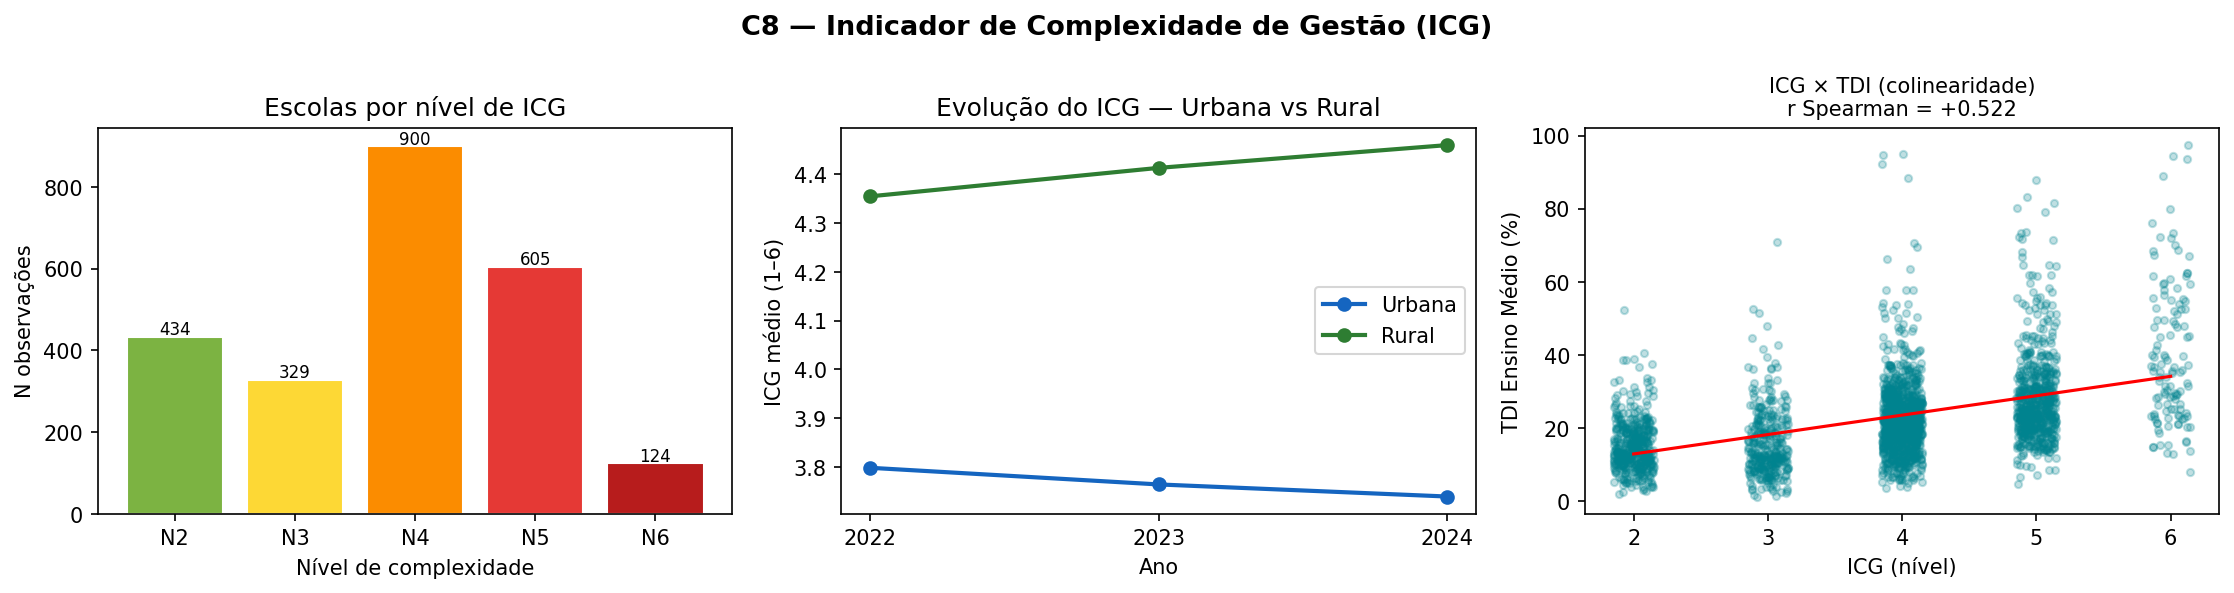
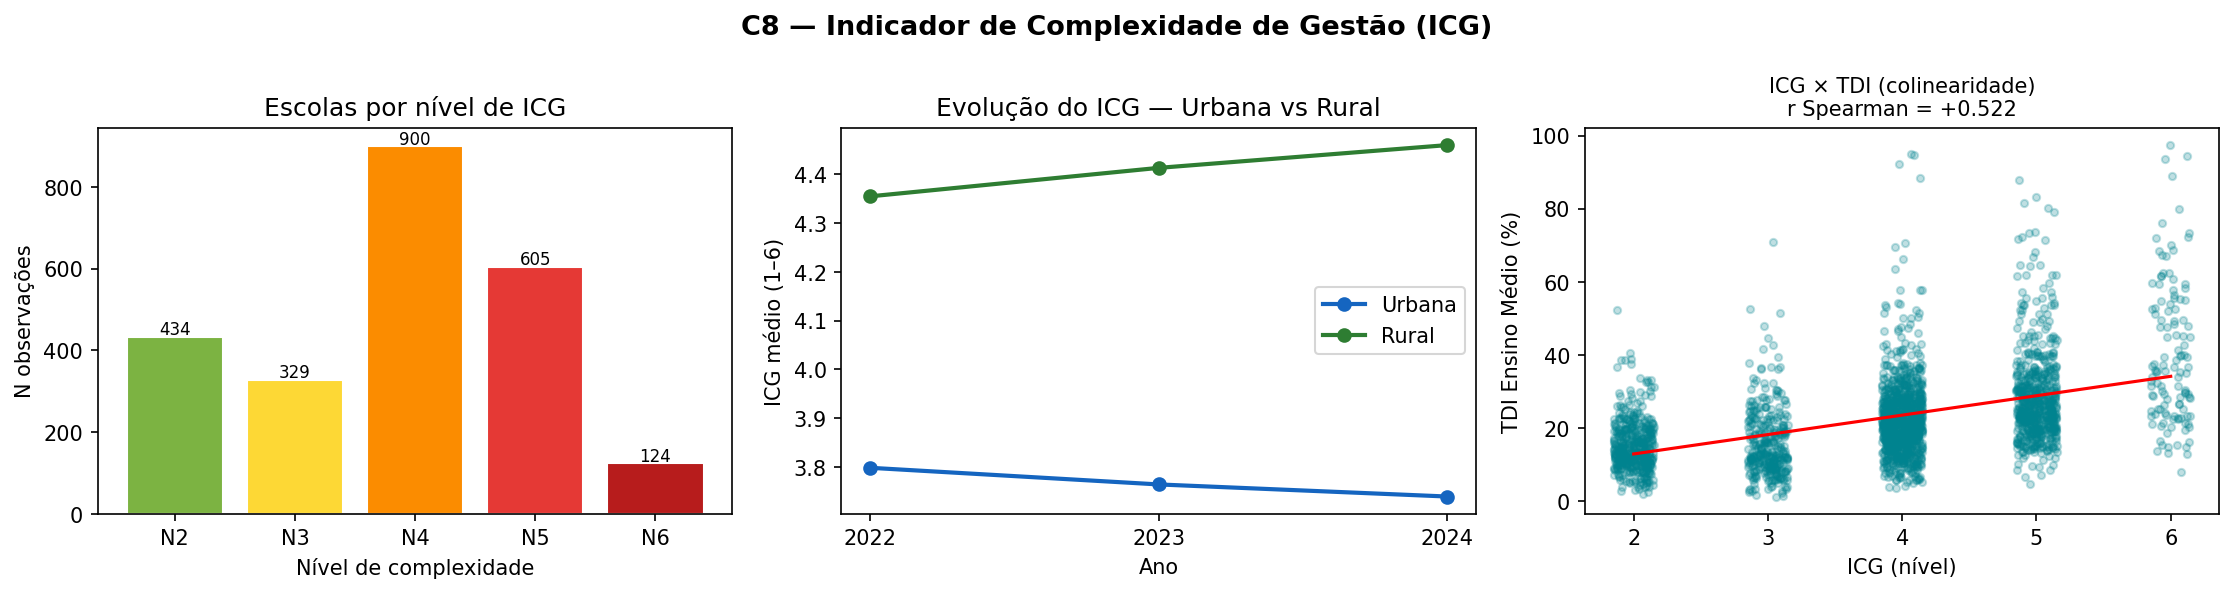
metricas

diff --git a/documentos/PLANO_DE_FINALIZACAO.md b/documentos/PLANO_DE_FINALIZACAO.md
@@ -2,8 +2,16 @@
 
 > **Atualizado em 30/07/2026.** Rodada de auditoria fechou os itens 1.3, 2.1, 4.2 e 5.2,
 > mais três achados novos (contagem de testes, ordem dos fatores SHAP, epígrafe do Freire).
-> A bibliografia foi fechada em 24 referências, todas com PDF local. Estado corrente
+> A bibliografia foi fechada em 24 referências, 21 delas com PDF local em
+> `documentos/referencias/` — as três exceções são as entradas BRASIL/INEP, que são bases de
+> dados e não artigos. Estado corrente
 > verificável por `/validar-numeros`, `/validar-escrita` e `/validar-documento`.
+>
+> **Revisão de 18/08/2026:** pipeline reexecutado do bruto ao ranking no ambiente fixado.
+> Artefatos de ETL, features, SHAP, resíduos, SS13 e predição saíram **bit-idênticos**; os
+> CSVs de métricas divergiram no máximo 4,4e-16 (epsilon de máquina, no Random Forest), com
+> Spearman e Precision@K exatamente iguais. 138/138 testes passam e a varredura do notebook
+> 15 confere 178 números do `.docx` sem divergência.
 
 Levantamento de **24 de julho de 2026**, feito a partir da inspeção do
 `TCC_Evasao_Escolar.docx` atual e do repositório. Supera o `PROXIMOS_PASSOS.md`
@@ -12,7 +20,7 @@ Levantamento de **24 de julho de 2026**, feito a partir da inspeção do
 **Estado geral:** o trabalho está essencialmente pronto. Os 13 comentários do
 orientador foram atendidos, o Capítulo 2 (Revisão Bibliográfica) foi escrito com
 referências reais em ABNT, o experimento SS13 e o gráfico de resíduos em número de
-alunos foram inseridos. O documento tem 7 capítulos, 20 figuras, 11 quadros e 24
+alunos foram inseridos. O documento tem 7 capítulos, 22 figuras, 12 quadros e 24
 referências (eram 18 em 24/07; a lista foi revista e fechada em 30/07). O que resta são **correções de consistência, elementos pré-textuais do
 autor e preparação para a defesa** — nenhuma tarefa de pesquisa em aberto.
 
@@ -40,10 +48,13 @@ depende do autor.*
   altura reajustada ao novo aspecto para não distorcer.
 
 - [x] **1.3 Contagem de testes. ✅ REABERTO E FECHADO (30/07).** Passou de 114 para **132**
-  com os testes da ressalva de equidade e da exportação do ranking. As 4 ocorrências no
-  `.docx` (¶330, ¶378, ¶499, ¶512) dizem “132 testes” e conferem com o `pytest`.
+  com os testes da ressalva de equidade e da exportação do ranking, e as 4 ocorrências no
+  `.docx` foram acertadas na época.
   Todo teste novo obriga a atualizar esses quatro pontos — o bloco 10 da varredura não trava
   esse número.
+  **Atualizado em 18/08/2026:** a suíte está em **138 testes** e as quatro ocorrências no
+  `.docx` (¶311, ¶359, ¶539, ¶552 na numeração atual) já dizem “138 testes”, conferindo com
+  o `pytest`. A renumeração dos parágrafos veio das edições posteriores a 30/07.
 
 - [ ] **1.4 Ficha catalográfica. ⏳ DEPENDE DO AUTOR.** Não foi tocada de propósito: o
   bloco ainda traz “Gerenciador de ficha catalográfica: http://biblio2.pucsp.br/ficha/…
@@ -52,8 +63,8 @@ depende do autor.*
 
 - [x] **1.5 Preparado o auto-update de campos. ✅** Inserido
   `<w:updateFields w:val="true"/>` no `settings.xml` → **ao abrir no Word, ele já
-  pergunta se quer atualizar os campos** (Sumário, Lista de Ilustrações com 20 figuras,
-  Lista de Quadros com 11). O autor só precisa **aceitar** (ou Ctrl+A, F9). Esta parte
+  pergunta se quer atualizar os campos** (Sumário, Lista de Ilustrações com 22 figuras,
+  Lista de Quadros com 12). O autor só precisa **aceitar** (ou Ctrl+A, F9). Esta parte
   é intrínseca ao Word e não há como preencher a paginação fora dele.
 
 - [x] **1.6 Larguras dos Quadros 5 e 7 conferidas. ✅** Quadro 5 (4 colunas, cabeçalhos

diff --git a/CLAUDE.md b/CLAUDE.md
@@ -38,7 +38,7 @@ monografia/
 │   ├── COMENTARIOS_ORIENTADOR.md      # os 13 comentários (SS1..SS13) e status
 │   ├── PLANO_DE_FINALIZACAO.md        # pendências em 5 tiers
 │   ├── SS*_TEXTO_PARA_O_TCC.md        # texto+números prontos por comentário
-│   └── referencias/                   # 16 PDFs + README que liga PDF→citação→¶
+│   └── referencias/                   # 21 PDFs + README que liga PDF→citação→¶
 └── .claude/skills/          # skills de validação (ver seção final)
 ```
 
@@ -217,12 +217,12 @@ que 2023→2024 (0,367 / 0,381), acompanhando a queda do abandono médio (1,36% 
 ## Trabalhando na Monografia
 
 - **Documento canônico e único**: `documentos/monografia-artur-oliveira-engenharia-de-software-2026.docx`
-  (590 parágrafos, 12 tabelas). Renomeado em 31/07/2026; antes era `TCC_Evasao_Escolar.docx`.
+  (637 parágrafos, 13 tabelas). Renomeado em 31/07/2026; antes era `TCC_Evasao_Escolar.docx`.
   É o alvo da varredura do notebook 15. Os `TCC_ANTES_*.docx` são backups históricos, nunca
   alvo de edição.
 - **Sempre criar backup** antes de alterar o `.docx`, seguindo a convenção existente:
   `TCC_ANTES_<ASSUNTO>.docx` em `documentos/`.
-- **Estado atual**: 7 capítulos, 22 figuras, 12 quadros, 29 referências (16 com PDF em
+- **Estado atual**: 7 capítulos, 22 figuras, 12 quadros, 24 referências (21 com PDF em
   `documentos/referencias/`). Numeração de figuras e quadros sem lacunas.
 - **Figuras do Capítulo 6 em linguagem de gestor** (`notebooks/16_figuras_simplificadas.py`):
   as versões técnicas M5, M6 e o beeswarm S1 **não** entram mais no corpo do texto — foram
@@ -231,7 +231,7 @@ que 2023→2024 (0,367 / 0,381), acompanhando a queda do abandono médio (1,36% 
   14, sem equivalente técnico anterior. Ao mexer nessas figuras, editar o notebook 16, nunca
   o 07 ou o 09.
 - **Nunca digitar um número no `.docx` sem que ele saia de um artefato do pipeline.** Depois
-  de qualquer edição numérica, rodar `/validar-numeros` — a varredura confere 121 valores do
+  de qualquer edição numérica, rodar `/validar-numeros` — a varredura confere 178 valores do
   documento contra os parquets/CSVs.
 - **Terminologia (comentário SS7)**: usar "característica", não "informação" nem "feature".
   Exceções legítimas já auditadas: o *abstract* em inglês, o título da referência
